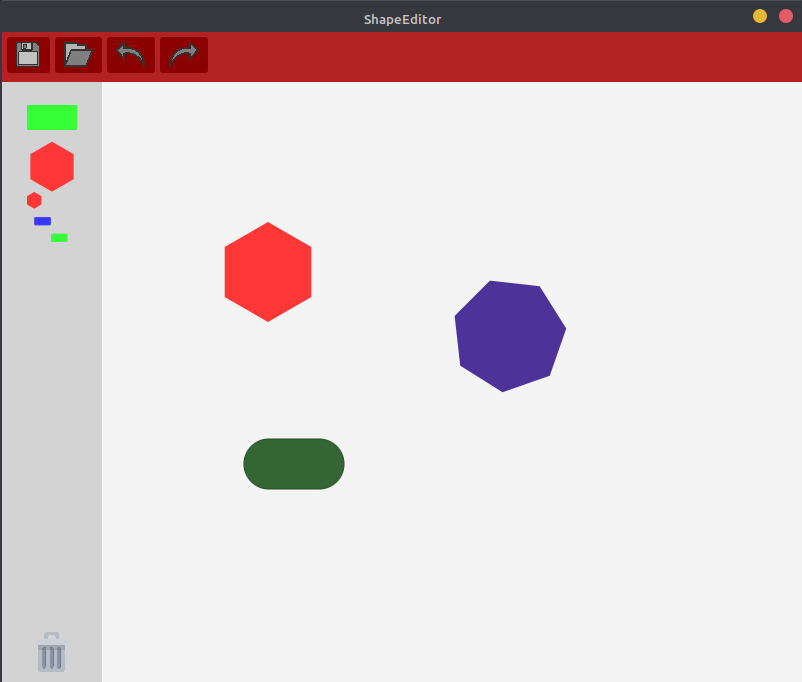
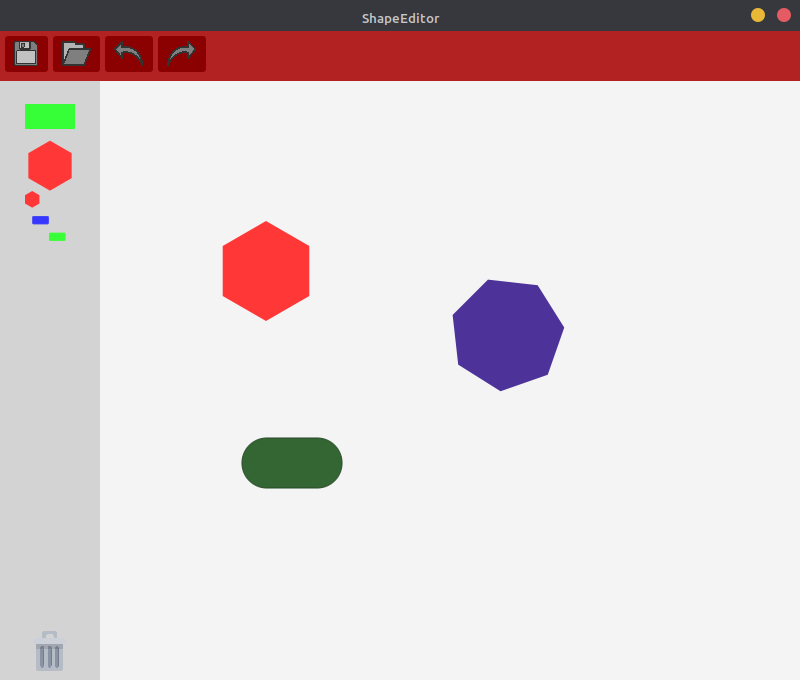
Resize screenshot

diff --git a/README.md b/README.md
@@ -3,7 +3,7 @@ A simple shape editor that embeds different design patterns in Java. This editor
 was to create a software that could easily be extended. That's why we used a lot of Design Patterns, to allow other developers to extend the features, and facilitate maintenance.
 
 <p align="center">
-  <img width="600" height="487" src="resources/editor-screenshot.png">
+  <img width="600" height="510" src="resources/editor-screenshot.png">
 </p>
 
 ## Run
